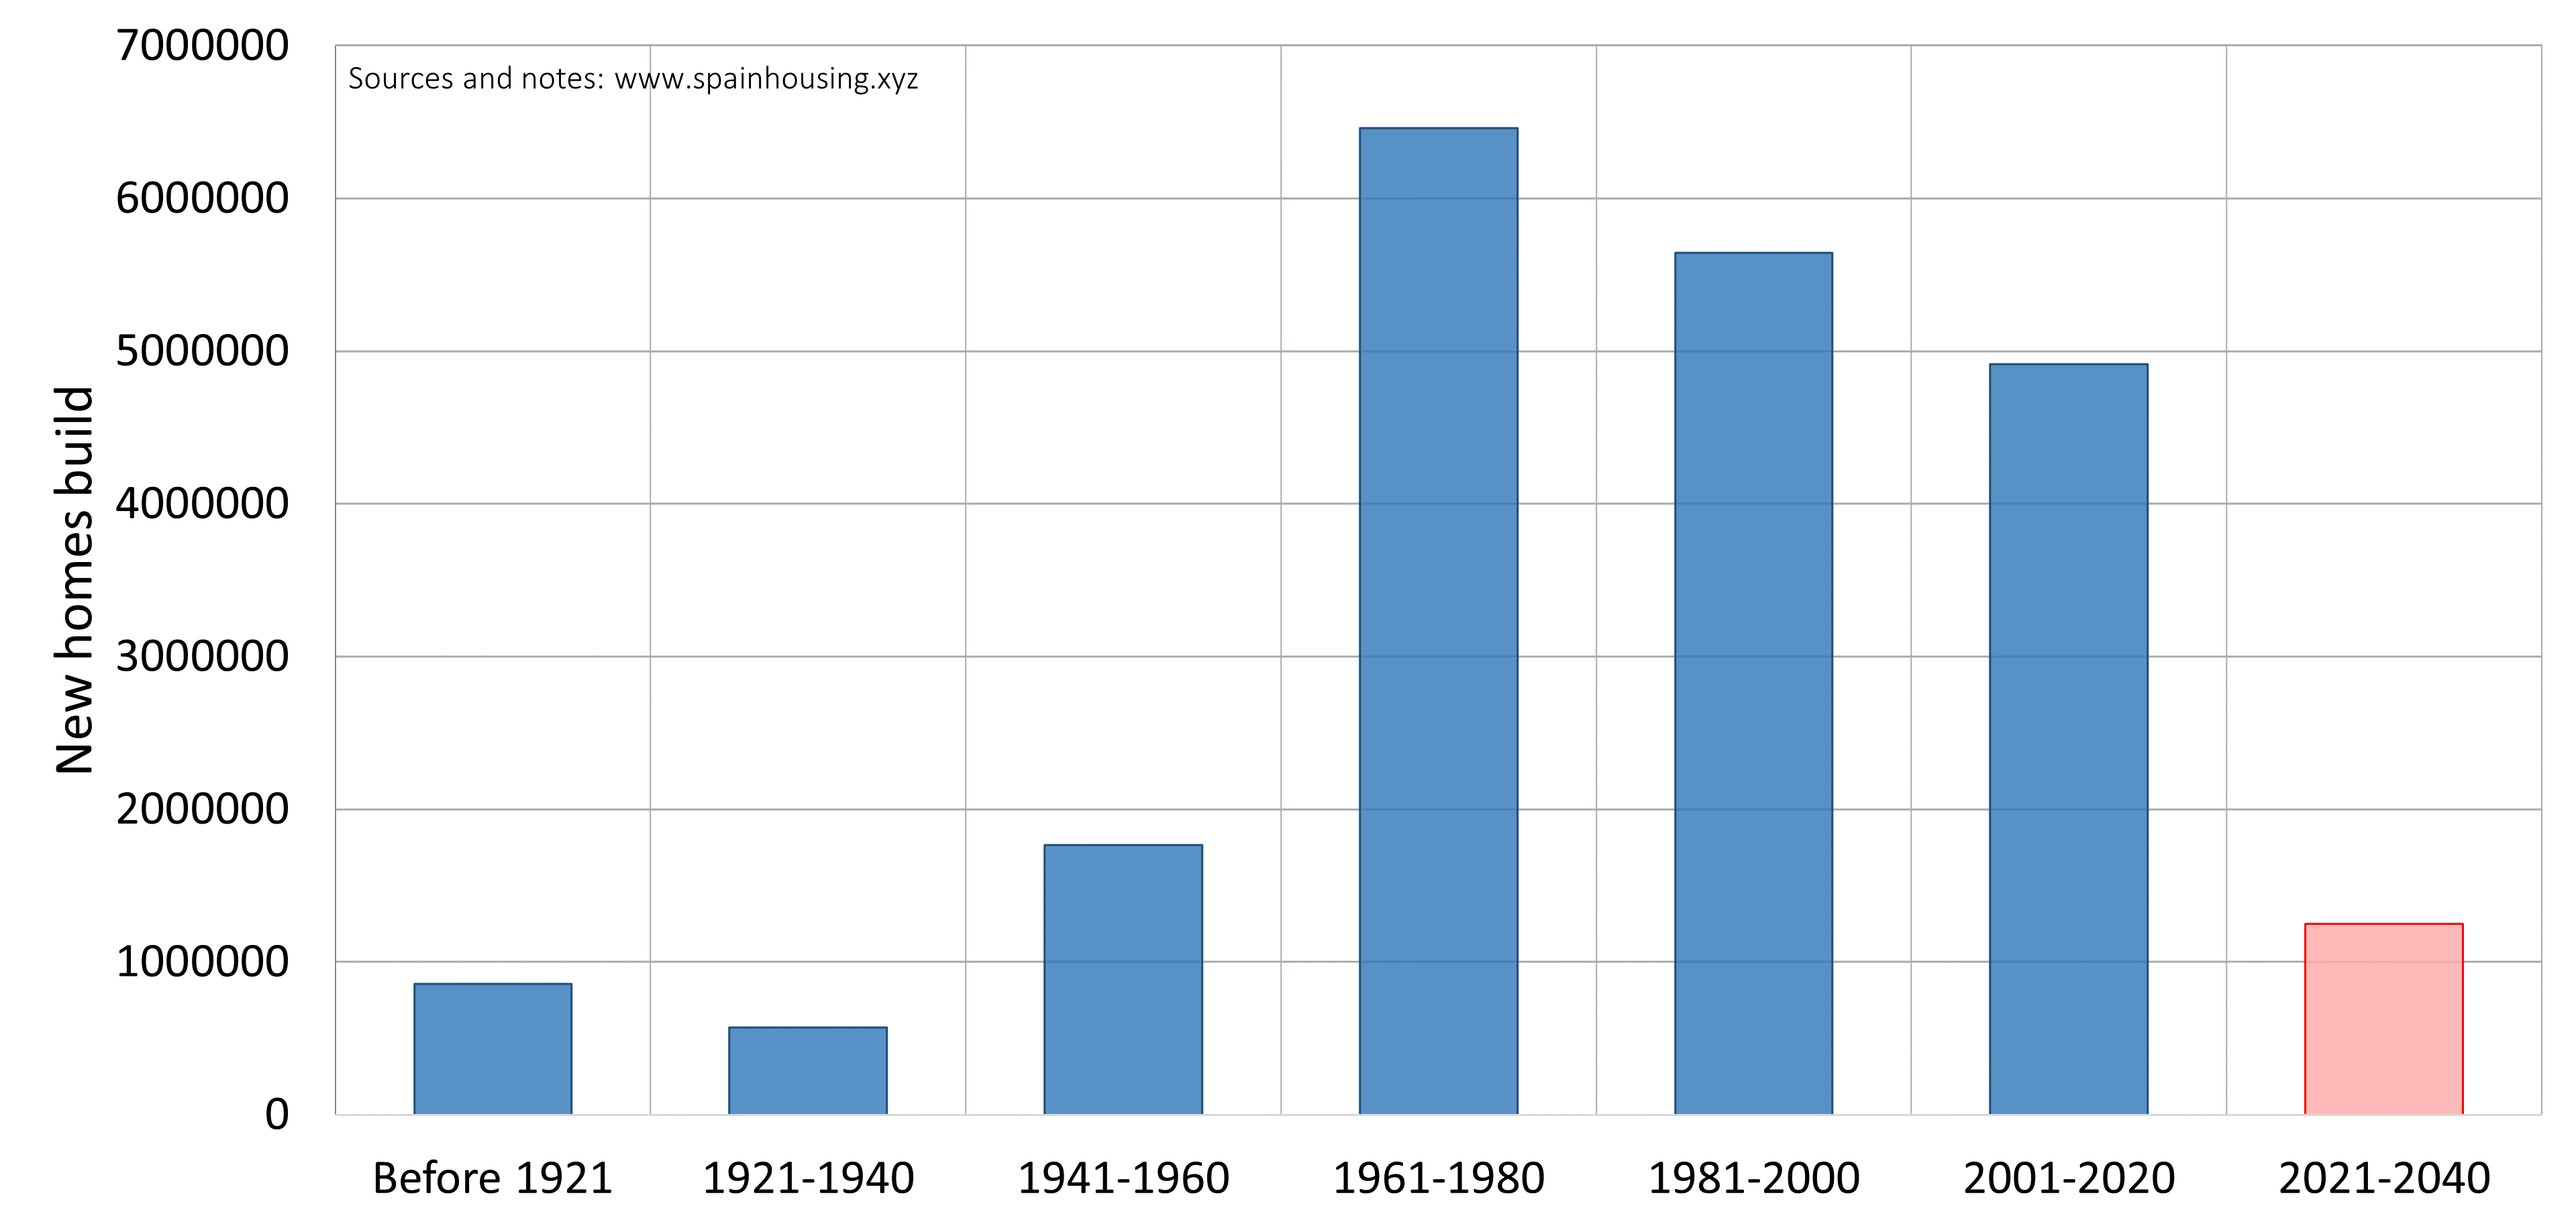
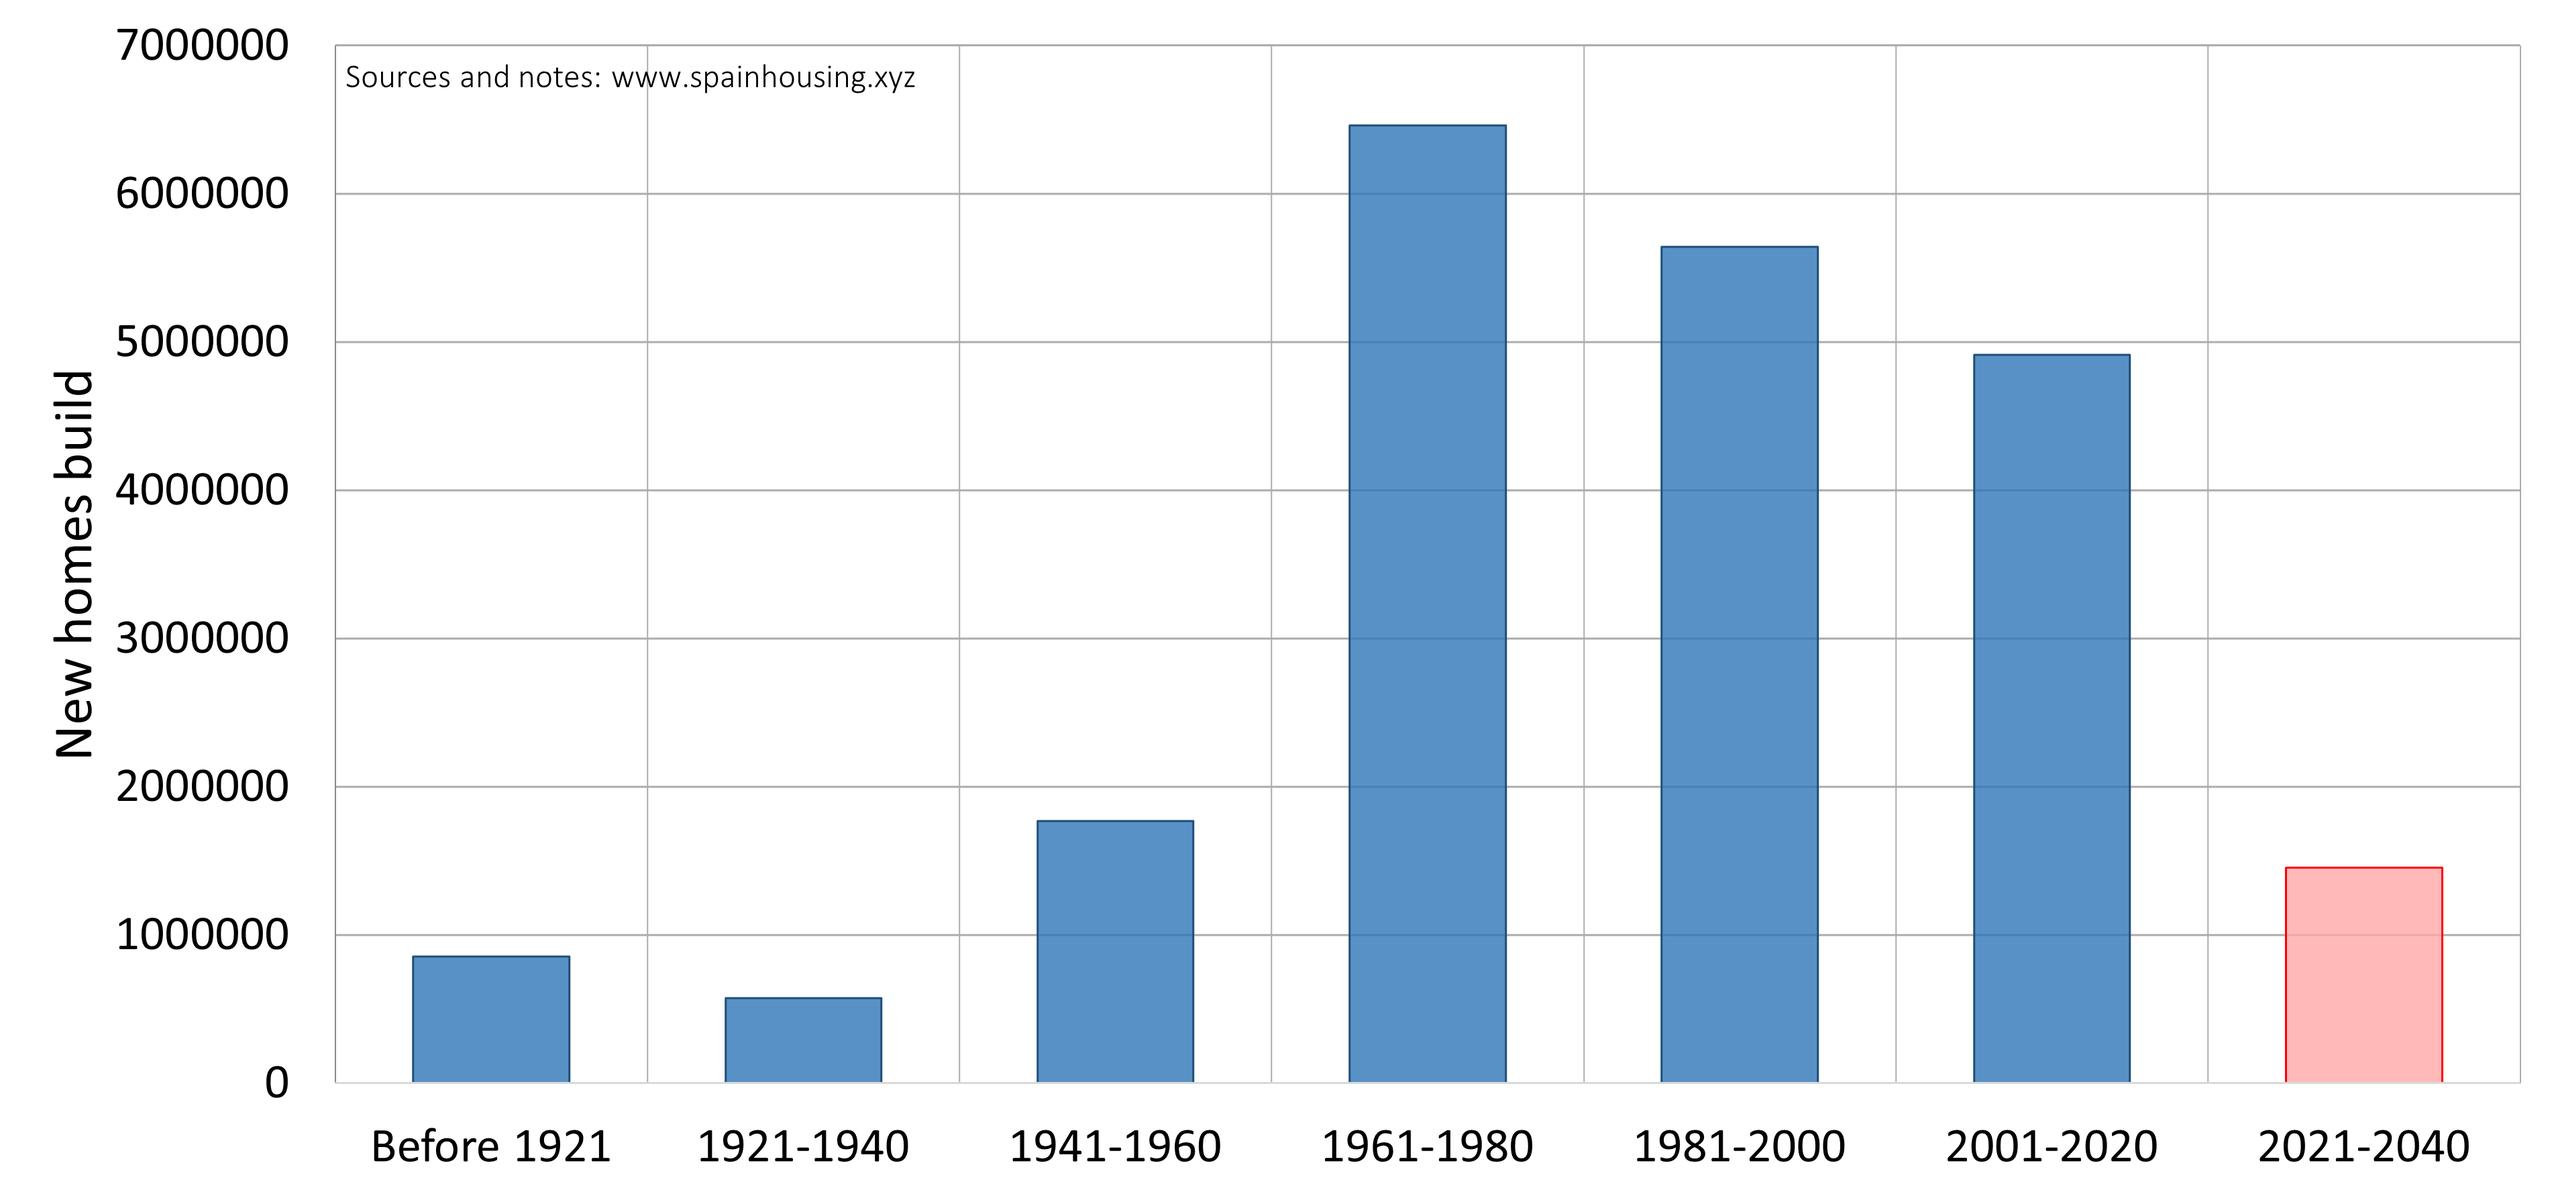
update

diff --git a/pages/posts/stock.md b/pages/posts/stock.md
@@ -17,7 +17,7 @@ import Image from 'next/image'
 
 [![Antiguedad de las viviendas](/images/stockperiods.png)](/images/stockperiods.png)
 
-- **Construction period**: number of today existing dwellings per year/period of construction. The **red bar** is a final estimate based on the current pace of construction.
+- **Construction period**: number of today existing dwellings per period of construction. The **red bar** is a final estimate based on the pace of construction of the last 10 years.
 
 [![Estoc y balance de viviendas](/images/stockbalance.png)](/images/stockbalance.png)
 
